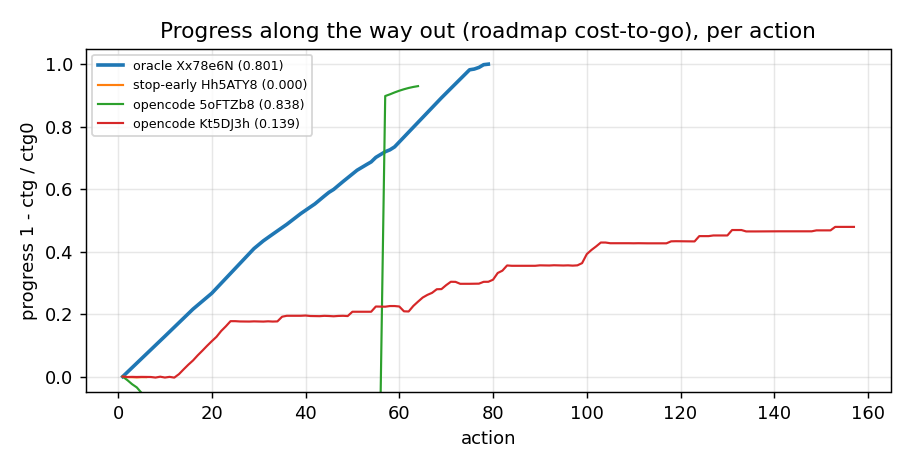
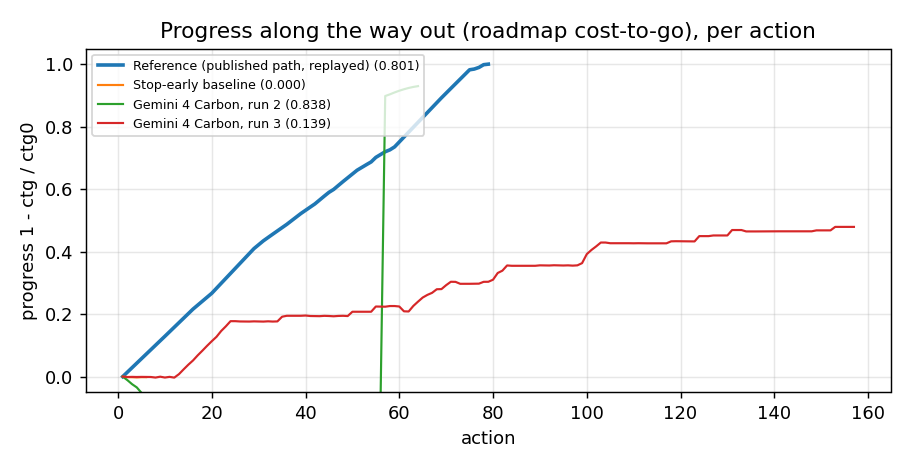
RESULTS.md plots: reader names instead of run hashes (Reference (published path, replayed), Do-nothing baseline, Stop-early baseline, '<model>, run <n>' numbered by trial start time as on the docs site); agent runs in run order

Changed region(s): [[0.1231, 0.0897, 0.4615, 0.2991], [0.4615, 0.2393, 0.4923, 0.2692], [0.4308, 0.1795, 0.4615, 0.2094]]

diff --git a/scripts/analyze.py b/scripts/analyze.py
@@ -20,6 +20,35 @@ from pathlib import Path
 
 ROOT = Path(__file__).resolve().parents[1]
 GROUPS = ("oracle", "oracle-planner", "noop", "stop-early", "opencode")
+# Reader names for plot labels (no run hashes; the hashes stay in the results tables). Agent runs are numbered by
+# trial start time (started_at in each trial's Harbor result.json), as on the docs site.
+BASELINE_NAMES = {"oracle": "Reference (published path, replayed)", "oracle-planner": "Reference, planner task (published path, replayed)",
+                  "noop": "Do-nothing baseline", "stop-early": "Stop-early baseline"}
+MODEL_NAMES = {"gemini-4-carbon": "Gemini 4 Carbon", "gemini-3.8-flash": "Gemini 3.8 Flash", "gemini-3.5-flash-lite": "Gemini 3.5 Flash-Lite",
+               "gemini-2.5-flash": "Gemini 2.5 Flash", "deepseek-4-1-flash-1017": "DeepSeek V4.1 Flash", "kimi-k3-1-pro": "Kimi K3 Pro"}
+
+
+def model_name(model: str) -> str:
+    m = model.split("/")[-1]
+    return MODEL_NAMES.get(m, m)
+
+
+def reader_labels(run_dir: Path, data: dict) -> dict[str, str]:
+    """trial name -> reader label: the baselines by role, agent runs as '<model>, run <n>' by trial start time."""
+    out = {}
+    for g, ts in data.items():
+        if g != "opencode":
+            for t in ts:
+                out[t["trial"]] = BASELINE_NAMES.get(g, g)
+            continue
+        def started(t):
+            r = run_dir / g / t["trial"] / "result.json"
+            return json.loads(r.read_text()).get("started_at", "") if r.exists() else ""
+        for n, t in enumerate(sorted(ts, key=started), 1):
+            cfg = run_dir / g / t["trial"] / "config.json"
+            model = json.loads(cfg.read_text()).get("agent", {}).get("model_name", "agent") if cfg.exists() else "agent"
+            out[t["trial"]] = f"{model_name(model)}, run {n}"
+    return out
 
 
 def load_trial(trial: Path) -> dict | None:
@@ -47,13 +76,15 @@ def load_trial(trial: Path) -> dict | None:
     }
 
 
-def plots(run: str, data: dict, media: Path) -> list[str]:
+def plots(run: str, data: dict, media: Path, labels: dict[str, str] | None = None) -> list[str]:
     import matplotlib
 
     matplotlib.use("Agg")
     import matplotlib.pyplot as plt
 
     media.mkdir(parents=True, exist_ok=True)
+    if labels:  # agent runs in run-number order
+        data = {g: (sorted(ts, key=lambda t: labels.get(t["trial"], "")) if g == "opencode" else ts) for g, ts in data.items()}
     out = []
     fig, ax = plt.subplots(figsize=(7, 3.6))
     for group, trials in data.items():
@@ -61,7 +92,7 @@ def plots(run: str, data: dict, media: Path) -> list[str]:
             if not t["ctg"] or not t["c0"]:
                 continue
             ys = [None if c is None else 1 - c / t["c0"] for c in t["ctg"]]
-            lbl = f"{group} {t['trial'].split('__')[-1]} ({t['score']:.3f})"
+            lbl = f"{(labels or {}).get(t['trial'], group)} ({t['score']:.3f})"
             ax.plot(range(1, len(ys) + 1), ys, marker="." if len(ys) < 3 else None, label=lbl, lw=2 if group == "oracle" else 1.2)
     ax.set_xlabel("action")
     ax.set_ylabel("progress 1 - ctg / ctg0")
@@ -75,16 +106,16 @@ def plots(run: str, data: dict, media: Path) -> list[str]:
     out.append(p)
     plt.close(fig)
 
-    rows = [(f"{g}\n{t['trial'].split('__')[-1]}", t) for g, ts in data.items() for t in ts]
+    rows = [((labels or {}).get(t["trial"], g).replace(" (", "\n(").replace(", ", ",\n", 1), t) for g, ts in data.items() for t in ts]
     keys = ["render", "get_state", "get_contacts", "grab", "move", "release", "wait"]
-    fig, ax = plt.subplots(figsize=(7, 3.6))
+    fig, ax = plt.subplots(figsize=(8, 4.2))
     bottom = [0] * len(rows)
     for k in keys:
         vals = [t["observations"].get(k, 0) + t["calls"].get(k, 0) for _, t in rows]
         if any(vals):
             ax.bar(range(len(rows)), vals, bottom=bottom, label=k)
             bottom = [b + v for b, v in zip(bottom, vals)]
-    ax.set_xticks(range(len(rows)), [r for r, _ in rows], fontsize=7)
+    ax.set_xticks(range(len(rows)), [r for r, _ in rows], fontsize=6)
     ax.set_yscale("symlog")
     ax.set_ylabel("MCP calls (logged)")
     ax.legend(fontsize=7, ncol=4)
@@ -129,7 +160,7 @@ def main() -> None:
     a = ap.parse_args()
     data = {g: [t for t in (load_trial(p) for p in sorted((a.run_dir / g).glob("*__*"))) if t] for g in GROUPS}
     data = {g: ts for g, ts in data.items() if ts}
-    figs = plots(a.run_dir.name, data, a.media)
+    figs = plots(a.run_dir.name, data, a.media, reader_labels(a.run_dir, data))
     md = report(a.run_dir, data, figs, (a.out or ROOT / "docs" / "RESULTS.md").resolve())
     (a.run_dir / "analysis.json").write_text(json.dumps({g: [{k: v for k, v in t.items() if k not in ("ctg", "min_distance")} for t in ts]
                                                          for g, ts in data.items()}, indent=1))
